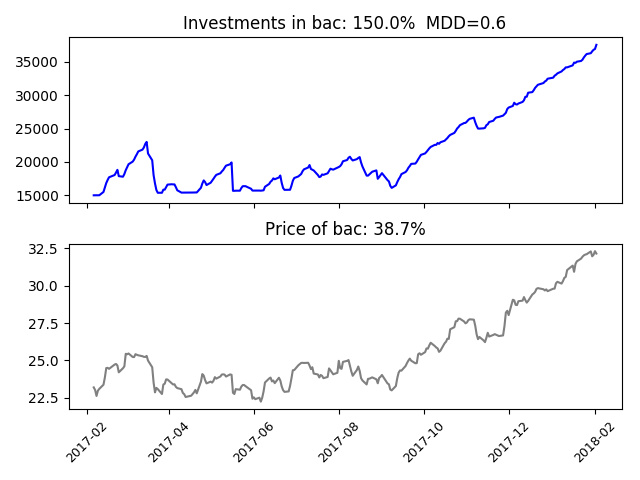
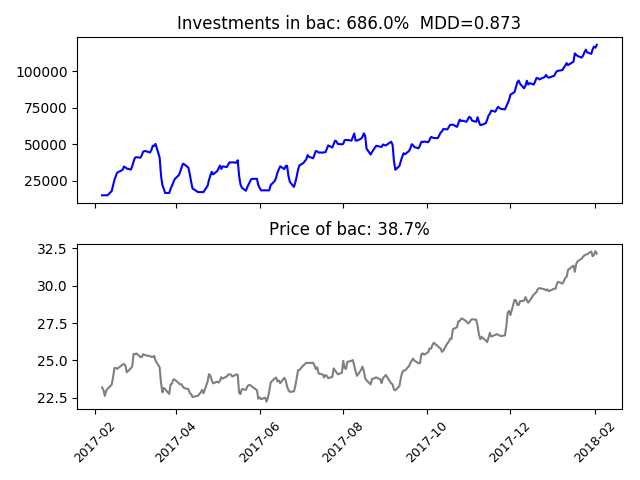
Fixing LSTM

diff --git a/environment.py b/environment.py
@@ -77,11 +77,10 @@ def trade(loss, statsModel, p, sharePer, startDate, startingCapital, stop, ticke
         if sig != 0:
             investor.strategy.make_position(investor, sig, environment.currentDate, stopLoss,
                                             sharePer)
-            # ADDED
-            if len(investor.positions)>1:
-                for p in investor.positions[:-1]:
-                    if type(p) != type(investor.positions[-1]):
-                        p.sell(investor,currentPrice)
+            # if len(investor.positions)>1:
+            #     for p in investor.positions[:-1]:
+            #         if type(p) != type(investor.positions[-1]):
+            #             p.sell(investor,currentPrice)
         environment.update_total_assets(investor)
         if d!= stopDay-1:
             environment.increment_day(investor.strategy)

diff --git a/compareModels.py b/compareModels.py
@@ -11,7 +11,7 @@ if __name__ == '__main__':
     startingCapital = 15000
     p = 0.025
     sharePer = 0.17
-    startDate = '2017-02-06'
+    startDate = '2018-01-03'
     stopDate = '2018-02-05'
 
     models = ['Arima','LSTM']
@@ -24,7 +24,7 @@ if __name__ == '__main__':
     #                        stopDate,stock,epochs,neurons,plotting=False)
     #         result['model'] = model
     #         save_results(result,manager,stock)
-    stock='aapl'
+    stock='hal'
     model='LSTM'
     result = trade(loss, model, p, sharePer, startDate, startingCapital,
                    stopDate, stock, epochs, neurons, plotting=True)

diff --git a/LSTM.py b/LSTM.py
@@ -124,13 +124,14 @@ class NN(object):
 
 if __name__ == '__main__':
     manager = CollectionManager('5Y_technicals', MongoClient()['AlgoTradingDB'])
-    data = create_timeseries(manager,'aapl')[0]
+    data = create_timeseries(manager,'hal')[0]
 
     network = NN(data)
     network.fit_lstm(1, 10, 4)
+    print(np.mean(data))
 
-    point = network.test[0, 0:-1]
-    test = np.array([0.5])
+    # point = network.test[0, 0:-1]
+    test = np.array([50])
     prediction = network.fit(test)
 
     print(prediction)

diff --git a/utils.py b/utils.py
@@ -12,7 +12,7 @@ from mongoObjects import MongoDocument
 def laterDate(date, j):
     ds = [int(d) for d in date.split('-')]
     date = dt.datetime(ds[0], ds[1], ds[2])
-    return date + dt.timedelta(days=j)
+    return str(date + dt.timedelta(days=j))[:10]
 
 
 def split(timeseries: list, percent: float):

diff --git a/agent.py b/agent.py
@@ -21,7 +21,7 @@ class InvestorAgent(object):
 
     def signal(self,T,k=5):
         threshold = k * 0.5 * self.strategy.p
-        if abs(T) >= threshold:
+        if abs(T) > threshold:
             if T > 0:
                 return 1
             return -1
